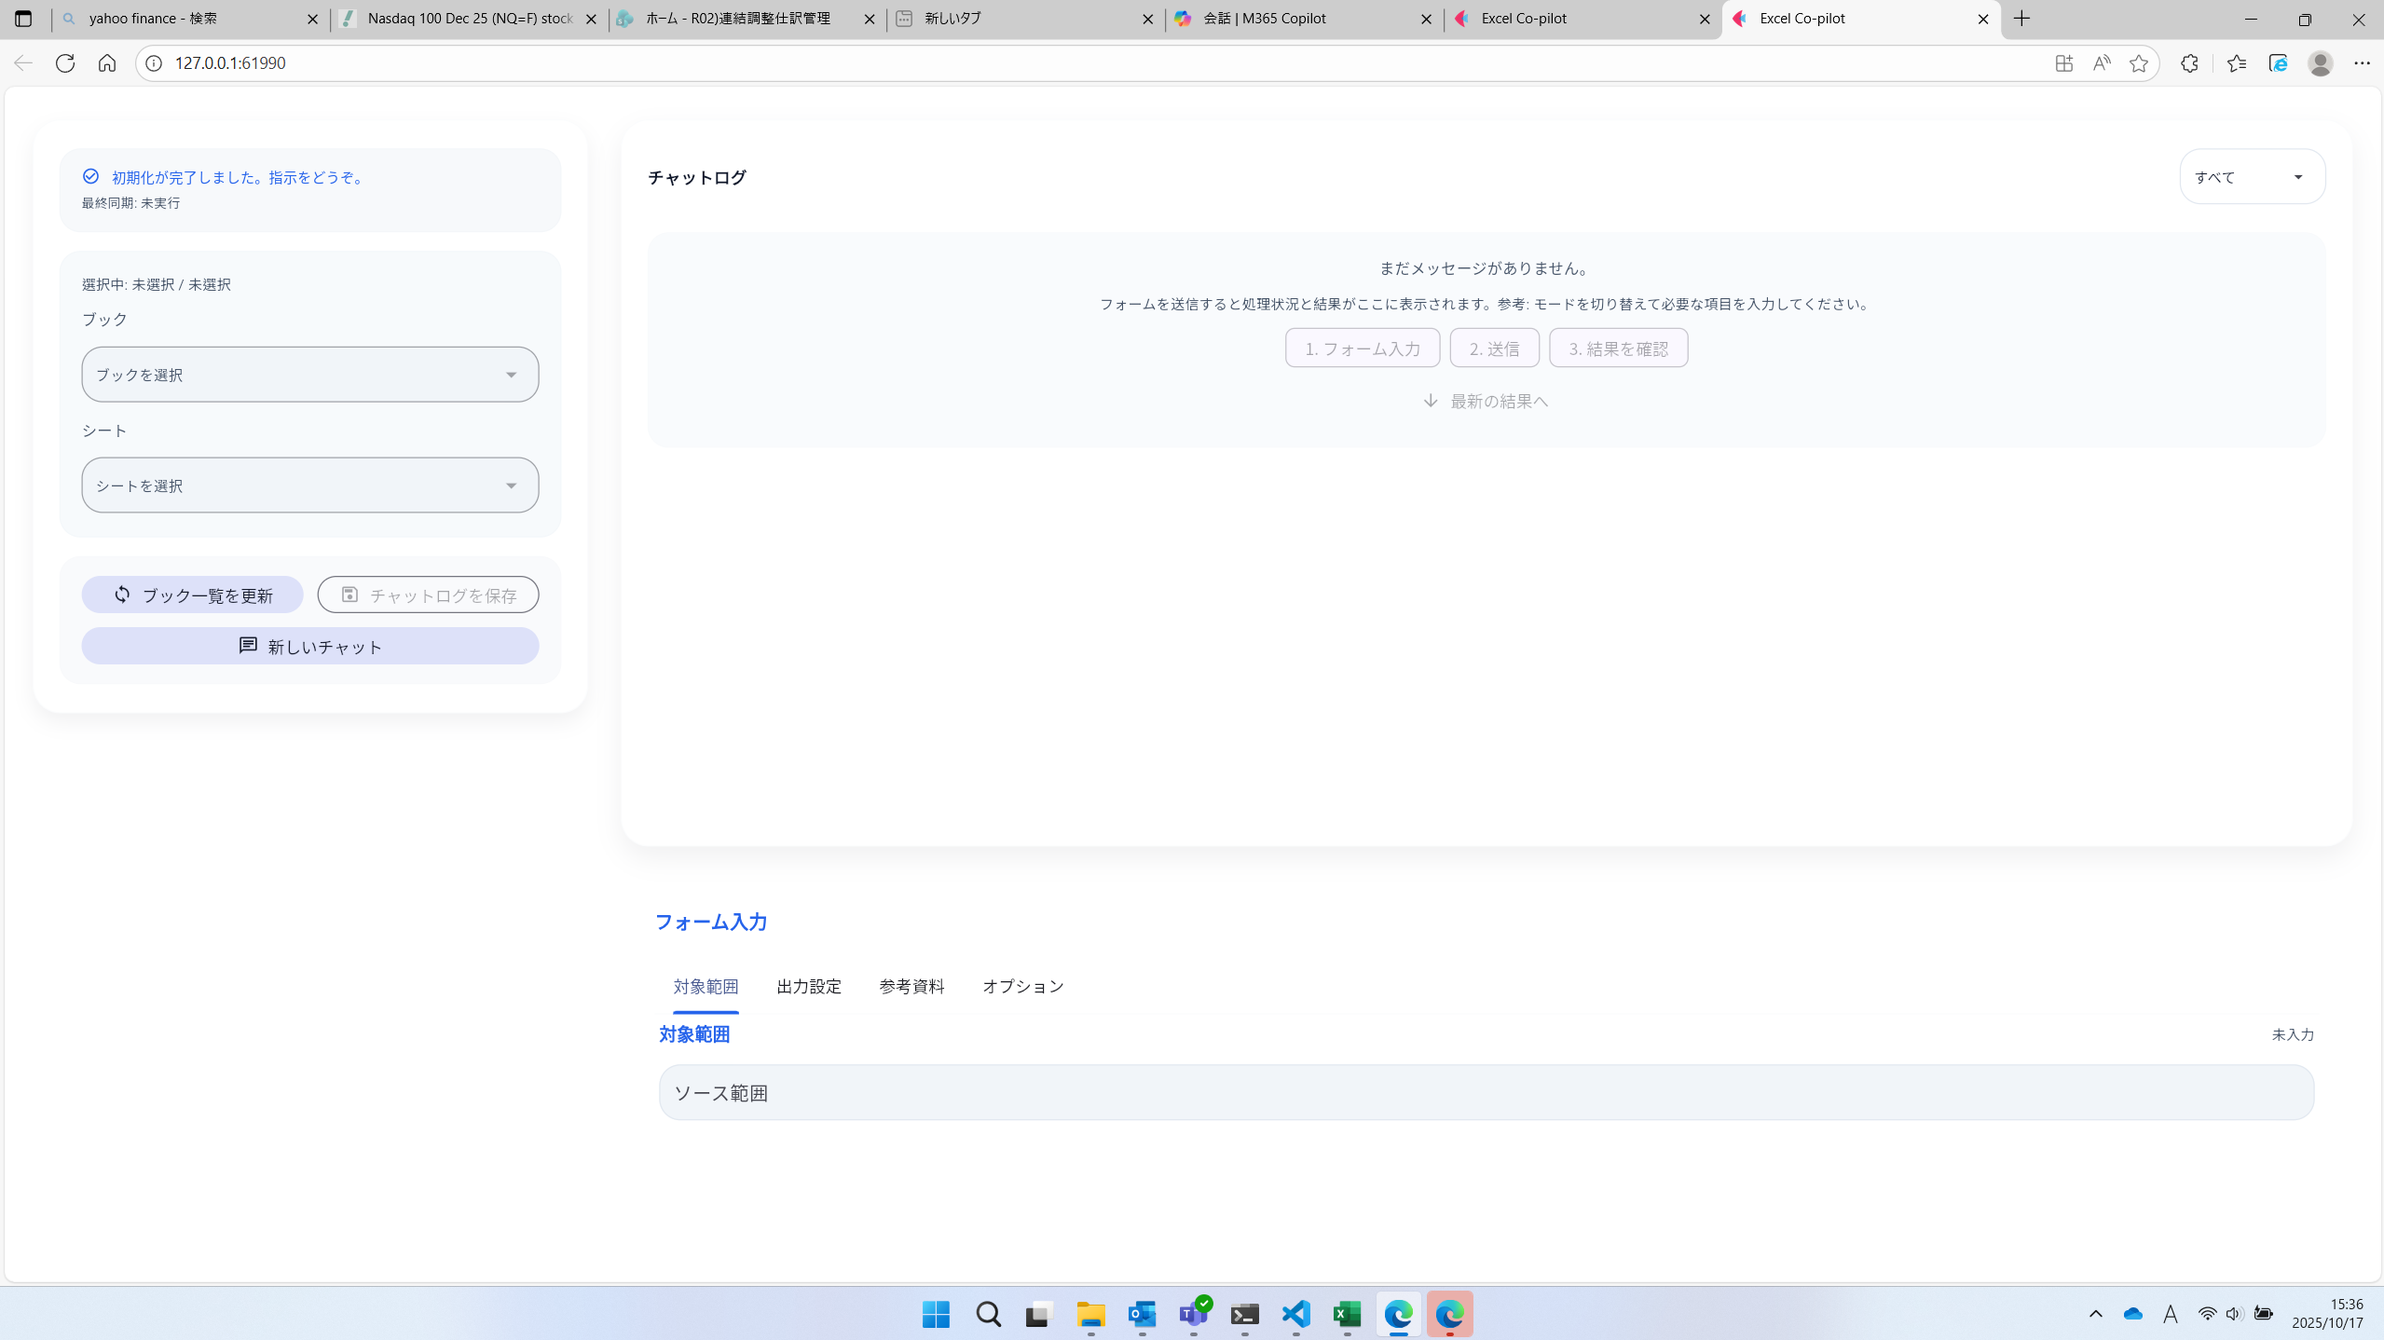
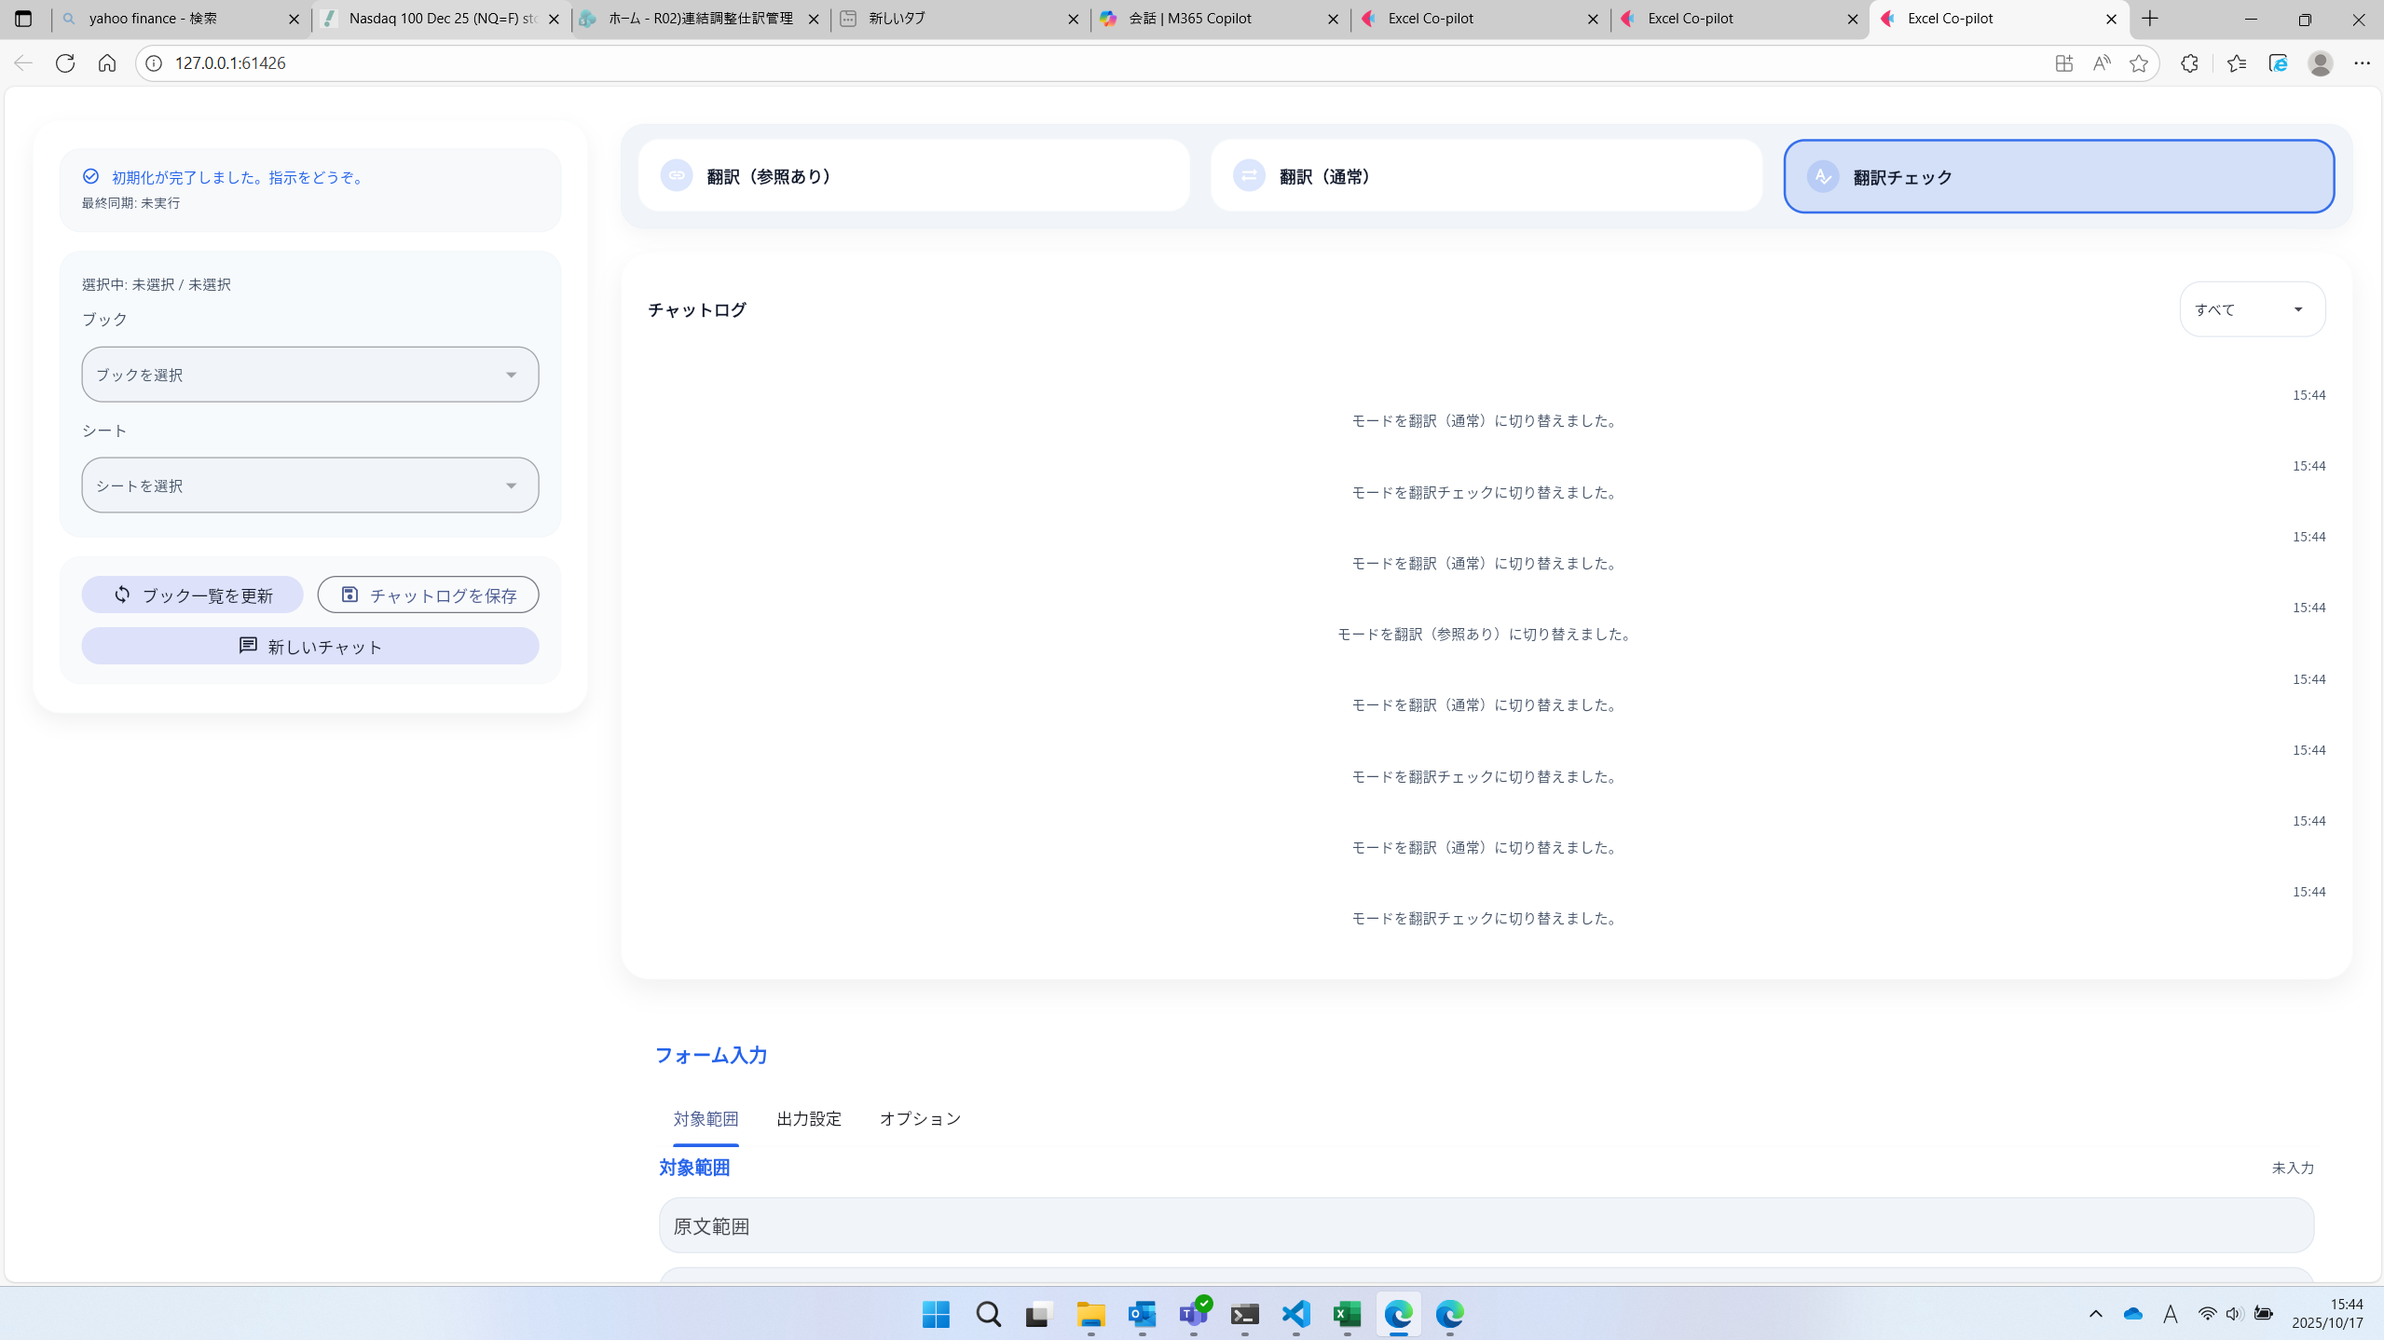
feat(ui): embed mode cards into form tab and trim reference UX

diff --git a/desktop_app.py b/desktop_app.py
@@ -121,7 +121,7 @@ FORM_FIELD_DEFINITIONS: Dict[CopilotMode, List[Dict[str, Any]]] = {
         {
             "control": "section",
             "label": "参照資料",
-            "description": "URL の追加／削除ボタンで 1 行ずつ入力を管理できます。HTTP(S) で取得できるリモート参照のみを登録してください。",
+            "description": "必要に応じて HTTP(S) で取得できる参照 URL を記入してください（1 件まで）。",
             "group": "references",
             "expanded": False,
             "children": [
@@ -131,7 +131,8 @@ FORM_FIELD_DEFINITIONS: Dict[CopilotMode, List[Dict[str, Any]]] = {
                     "argument": "source_reference_urls",
                     "type": "list",
                     "multiline": True,
-                    "min_lines": 2,
+                    "min_lines": 1,
+                    "max_lines": 3,
                     "placeholder": "例: https://example.com/source-guideline",
                     "group": "references",
                 },
@@ -141,7 +142,8 @@ FORM_FIELD_DEFINITIONS: Dict[CopilotMode, List[Dict[str, Any]]] = {
                     "argument": "target_reference_urls",
                     "type": "list",
                     "multiline": True,
-                    "min_lines": 2,
+                    "min_lines": 1,
+                    "max_lines": 3,
                     "placeholder": "例: https://example.com/english-reference",
                     "group": "references",
                 },
@@ -159,7 +161,7 @@ FORM_FIELD_DEFINITIONS: Dict[CopilotMode, List[Dict[str, Any]]] = {
         },
         {
             "name": "translated_range",
-            "label": "翻訳範囲",
+            "label": "訳文範囲",
             "argument": "translated_range",
             "required": True,
             "placeholder": "例: C2:C20",
@@ -198,15 +200,15 @@ FORM_FIELD_DEFINITIONS: Dict[CopilotMode, List[Dict[str, Any]]] = {
         },
     ],
 }
-
 FORM_GROUP_LABELS: Dict[str, str] = {
+    "mode": "モード",
     "scope": "対象範囲",
     "output": "出力設定",
     "references": "参考資料",
     "options": "オプション",
 }
 
-FORM_GROUP_ORDER: List[str] = ["scope", "output", "references", "options"]
+FORM_GROUP_ORDER: List[str] = ["mode", "scope", "output", "references", "options"]
 
 
 def _flatten_field_definitions(definitions: List[Dict[str, Any]]) -> List[Dict[str, Any]]:
@@ -733,8 +735,6 @@ class CopilotApp:
             adaptive=True,
         )
 
-        self.mode_card_row = self._build_mode_cards()
-
         self._chat_panel = ft.Container(
             expand=True,
             bgcolor=palette["surface_high"],
@@ -757,23 +757,25 @@ class CopilotApp:
 
         self._form_panel = self._build_form_panel()
 
-        self._mode_panel_container = ft.Container(
-            content=self.mode_card_row,
-            bgcolor=palette["surface_variant"],
-            border_radius=20,
-            padding=ft.Padding(18, 16, 18, 16),
-            border=ft.border.all(1, ft.Colors.with_opacity(0.08, palette["outline"])),
-            shadow=ft.BoxShadow(
-                spread_radius=0,
-                blur_radius=12,
-                color=ft.Colors.with_opacity(0.04, "#0F172A"),
-                offset=ft.Offset(0, 6),
-            ),
-            margin=ft.margin.only(top=4),
+        form_and_chat_row = ft.ResponsiveRow(
+            controls=[
+                ft.Container(
+                    content=self._form_panel,
+                    col={"xs": 12, "md": 12, "lg": 6},
+                    expand=True,
+                ),
+                ft.Container(
+                    content=self._chat_panel,
+                    col={"xs": 12, "md": 12, "lg": 6},
+                    expand=True,
+                ),
+            ],
+            spacing=24,
+            run_spacing=24,
         )
 
         self._main_column = ft.Column(
-            controls=[self._chat_panel, self._form_panel, self._mode_panel_container],
+            controls=[form_and_chat_row],
             expand=True,
             spacing=24,
         )
@@ -824,7 +826,14 @@ class CopilotApp:
         tabs_control, controls_map = self._create_form_controls_for_mode(self.mode)
         self.form_controls = controls_map
         self._form_tabs = tabs_control
-        self._form_body_column = ft.Container(content=self._form_tabs, expand=True)
+        self._form_body_column = ft.Container(
+            content=self._form_tabs,
+            height=420,
+            expand=False,
+            clip_behavior=ft.ClipBehavior.HARD_EDGE,
+            border_radius=18,
+            bgcolor=ft.Colors.with_opacity(0.02, palette["surface_variant"]),
+        )
 
         self.form_error_text = ft.Text(
             "",
@@ -911,7 +920,7 @@ class CopilotApp:
             content=content,
             bgcolor=palette["surface_high"],
             border_radius=24,
-            padding=ft.Padding(28, 32, 28, 32),
+            padding=ft.Padding(22, 24, 22, 24),
             border=ft.border.all(1, ft.Colors.with_opacity(0.08, palette["outline"])),
             shadow=ft.BoxShadow(
                 spread_radius=0,
@@ -938,6 +947,8 @@ class CopilotApp:
         new_controls: Dict[str, ft.TextField] = {}
         self._field_groups = {}
         self._group_summary_labels = {}
+
+        grouped_controls.setdefault("mode", []).append(self._build_mode_selection_control())
 
         def _build_required_badge() -> ft.Container:
             return ft.Container(
@@ -981,32 +992,7 @@ class CopilotApp:
             self._field_groups[name] = group
             return text_field
 
-        def _wrap_reference_field(field_name: str, text_field: ft.TextField) -> ft.Control:
-            add_button = ft.IconButton(
-                icon=ft.Icons.ADD,
-                tooltip="空行を追加",
-                on_click=lambda e, name=field_name: self._append_reference_row(name),
-                icon_size=18,
-            )
-            remove_button = ft.IconButton(
-                icon=ft.Icons.REMOVE,
-                tooltip="末尾の行を削除",
-                on_click=lambda e, name=field_name: self._remove_reference_row(name),
-                icon_size=18,
-            )
-            paste_button = ft.IconButton(
-                icon=ft.Icons.CONTENT_PASTE,
-                tooltip="クリップボードから貼り付け",
-                on_click=lambda e, name=field_name: self._paste_reference_from_clipboard(name),
-                icon_size=18,
-            )
-            button_row = ft.Row(
-                controls=[paste_button, add_button, remove_button],
-                alignment=ft.MainAxisAlignment.END,
-                spacing=6,
-            )
-            return ft.Column([text_field, button_row], spacing=8, tight=True)
-
+        
         for field in definitions:
             group_key = field.get("group", "scope")
             if field.get("control") == "section":
@@ -1014,10 +1000,7 @@ class CopilotApp:
                 for child_definition in field.get("children", []):
                     child_group = child_definition.get("group", group_key)
                     child_field = _build_text_field(child_definition, child_group)
-                    if child_group == "references":
-                        child_controls.append(_wrap_reference_field(child_definition["name"], child_field))
-                    else:
-                        child_controls.append(child_field)
+                    child_controls.append(child_field)
                 if not child_controls:
                     continue
                 section_elements: List[ft.Control] = [
@@ -1154,6 +1137,8 @@ class CopilotApp:
             pass
 
     def _compute_group_summary(self, group_key: str) -> str:
+        if group_key == "mode":
+            return MODE_LABELS.get(self.mode, self.mode.value)
         if group_key == "references":
             total_urls = 0
             for name, assigned_group in self._field_groups.items():
@@ -1189,73 +1174,6 @@ class CopilotApp:
         if group_key == "options" and len(values) > 1:
             return f"{values[0]} 他 {len(values) - 1}"
         return values[0]
-
-    def _append_reference_row(self, field_name: str) -> None:
-        control = self.form_controls.get(field_name)
-        if not control:
-            return
-        current = (control.value or "").replace("\r\n", "\n")
-        lines = current.split("\n") if current else []
-        lines.append("")
-        control.value = "\n".join(lines)
-        try:
-            control.focus()
-            control.update()
-        except Exception:
-            pass
-        self._handle_form_value_change(field_name)
-
-    def _remove_reference_row(self, field_name: str) -> None:
-        control = self.form_controls.get(field_name)
-        if not control:
-            return
-        current = (control.value or "").replace("\r\n", "\n")
-        lines = current.split("\n") if current else []
-        if not lines:
-            return
-        lines = lines[:-1]
-        control.value = "\n".join(lines).rstrip()
-        try:
-            control.update()
-        except Exception:
-            pass
-        self._handle_form_value_change(field_name)
-
-    def _paste_reference_from_clipboard(self, field_name: str) -> None:
-        control = self.form_controls.get(field_name)
-        if not control:
-            return
-        clipboard_text = ""
-        get_clipboard = getattr(self.page, "get_clipboard", None)
-        if callable(get_clipboard):
-            try:
-                clipboard_text = get_clipboard() or ""
-            except Exception as clip_err:
-                print(f"クリップボードの取得に失敗しました: {clip_err}")
-        if not clipboard_text:
-            self._add_message(ResponseType.INFO, "クリップボードに貼り付け可能なURLが見つかりませんでした。")
-            return
-        urls = [
-            line.strip()
-            for line in clipboard_text.replace("\r\n", "\n").split("\n")
-            if line.strip()
-        ]
-        if not urls:
-            self._add_message(ResponseType.INFO, "貼り付け可能なURLが見つかりませんでした。")
-            return
-        existing = [
-            line.strip()
-            for line in (control.value or "").replace("\r\n", "\n").split("\n")
-            if line.strip()
-        ]
-        merged = existing + urls
-        control.value = "\n".join(merged)
-        try:
-            control.focus()
-            control.update()
-        except Exception:
-            pass
-        self._handle_form_value_change(field_name)
 
     def _split_list_values(self, raw_text: str) -> List[str]:
         tokens: List[str] = []
@@ -1574,6 +1492,37 @@ class CopilotApp:
         row = ft.ResponsiveRow(controls=cards, spacing=18, run_spacing=18)
         self._refresh_mode_cards()
         return row
+
+    def _build_mode_selection_control(self) -> ft.Container:
+        palette = EXPRESSIVE_PALETTE
+        mode_row = self._build_mode_cards()
+        self.mode_card_row = mode_row
+        return ft.Container(
+            content=ft.Column(
+                [
+                    ft.Text(
+                        "モード選択",
+                        size=14,
+                        weight=ft.FontWeight.W_600,
+                        color=palette["on_surface_variant"],
+                        font_family=self._primary_font_family,
+                    ),
+                    mode_row,
+                ],
+                spacing=12,
+                tight=True,
+            ),
+            bgcolor=palette["surface_high"],
+            border_radius=24,
+            padding=ft.Padding(24, 24, 24, 20),
+            border=ft.border.all(1, ft.Colors.with_opacity(0.08, palette["outline"])),
+            shadow=ft.BoxShadow(
+                spread_radius=0,
+                blur_radius=16,
+                color=ft.Colors.with_opacity(0.06, "#0F172A"),
+                offset=ft.Offset(0, 8),
+            ),
+        )
 
     def _refresh_mode_cards(self):
         palette = EXPRESSIVE_PALETTE

diff --git a/IMPLEMENTATION_PLAN.md b/IMPLEMENTATION_PLAN.md
@@ -23,7 +23,7 @@
 5. UI オーバーホール  
    - 左ペインをステータス／コンテキスト概要／共通アクションの 3 カードに分割し、最終同期時刻やブック／シート状態を即時把握できるようにしました。  
    - チャットタイムラインにフィルターと空状態カードを追加し、タスク完了バッジやタイムスタンプを含むメタ情報を表示するようにしました。  
-   - フォームをタブ型レイアウトへ刷新し、必須項目バッジ・参考 URL の追加／削除／貼り付けショートカット・進行状況リングと「続けて実行」導線を実装しました。  
+   - フォームをタブ型レイアウトへ刷新し、必須項目バッジ・参考 URL フィールドの簡素化・進行状況リングと「続けて実行」導線を実装しました。  
    - 送信 summary にモード・ブック／シートを添付し、進捗メッセージと連動するフォーム下部のステータス表示を追加しました。  
 
 ## 次フェーズで引き継ぐタスク
@@ -40,5 +40,5 @@
 - 左ペインのカードを「接続ステータス」「対象ブック／シート」「共通アクション」の 3 ブロックに分割（実装済み）。最終同期時刻と READY／処理中の配色が反映されているが、横幅が狭い場合の sticky 化と警告色のメリハリは追加検討事項。  
 - チャットタイムラインに空状態カード・フィルター・「最新の結果へ」ボタン・モードバッジ／タイムスタンプを導入済み。巨大ログ時の仮想化やフィルター種別の拡張が今後の検討課題。  
 - フォーム入力セクションはタブ化し、「対象範囲」「出力設定」「参考資料」「オプション」に分割して Required バッジ／サマリー表示を実装済み。タブ一括エラー表示やタブごとの未入力ハイライトが今後の改善余地。  
-- 参考資料エリアでは URL 行の追加・削除・クリップボード貼り付けが可能になった。貼り付け時の URL 正規化（余分なテキストの除去）とドラッグ＆ドロップ対応を次候補として残す。  
+- 参考資料エリアは単一 URL を入力するシンプルなフィールドに揃え、余分なボタンを排除した。複数参照が必要な場合のワークフロー整備は別途検討事項。  
 - 送信／停止ボタンはフォーム下部のアクションバーに固定し、進行中のプログレスリングとステップメッセージ、「続けて実行」ボタンを追加済み。ステップ名称の粒度調整とタスク失敗時の再送導線が次の検討事項。
